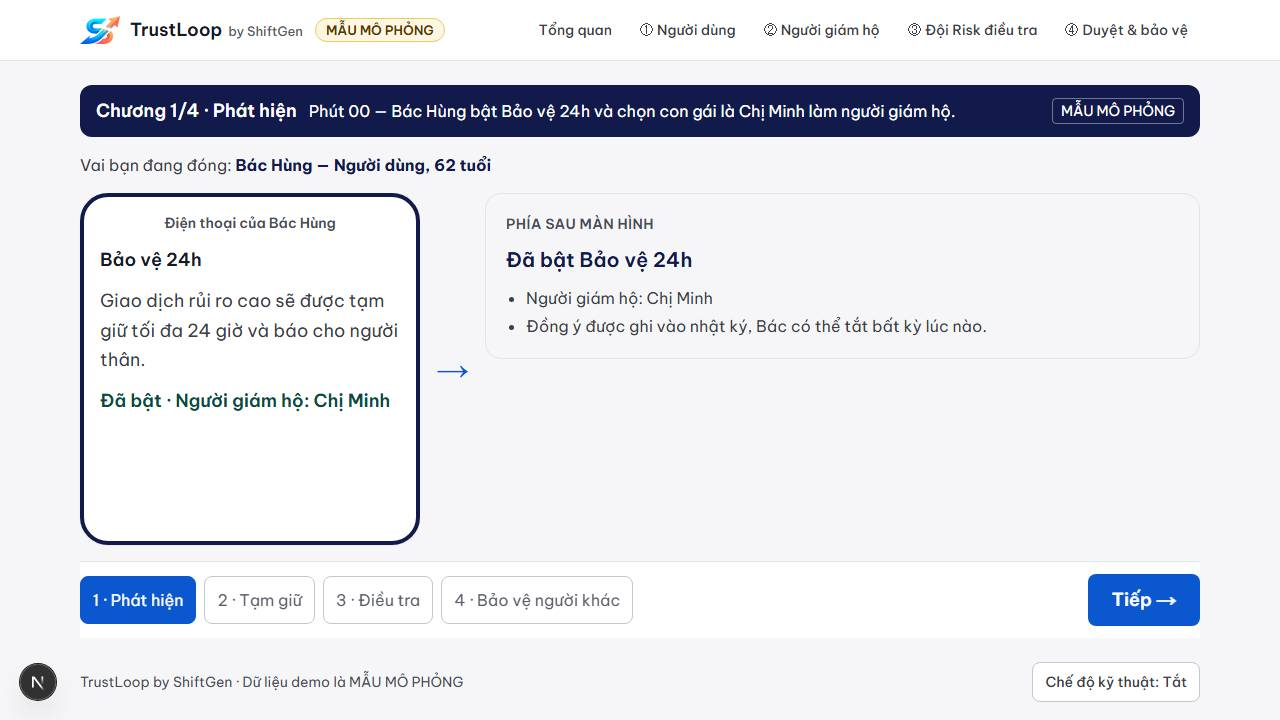
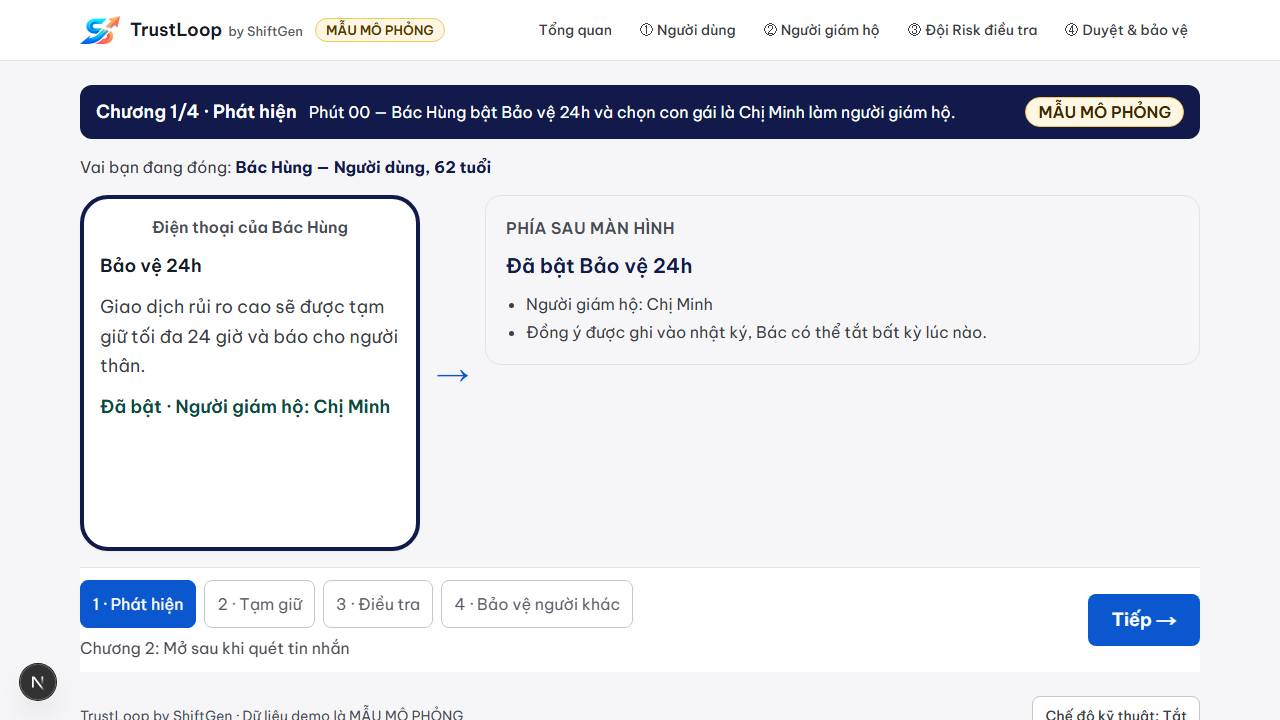
fix(story): address code-review findings for #20
- one Signal Orange surface: the phone hold banner (now with 'Giữ đến …'); backstage headline is plain
- stage text ≥16px; replay notice mono with a seafoam rule; MẪU MÔ PHỎNG as the amber tag
- locked chapter reason shown as text; Technical Mode link 'Mở màn hình đầy đủ' keeps the session,
  ids/enums shown in Technical Mode
- keyboard: busy button uses aria-disabled (focus stays), no focus steal on load, page has an h1
- mobile: primary button fixed to the bottom, narration stacks; index keys; beatById helper

diff --git a/components/story/BeatViews.tsx b/components/story/BeatViews.tsx
@@ -11,10 +11,11 @@ import { DEMO_PRESETS, RISK_LEVEL_META, SCAM_CATEGORY_VI } from "@/components/b2
 import { CAST, modelDisplayName } from "@/lib/cast";
 import { isReplayNotice } from "@/lib/replay-label";
 import { STORY_AMOUNT_VND, STORY_RECIPIENT_ACCOUNT } from "@/lib/story/actions";
-import { STORY_BEATS, type StoryState } from "@/lib/story/machine";
+import { beatById, type StoryState } from "@/lib/story/machine";
 
 const vnd = (n: number) => `${n.toLocaleString("vi-VN")}đ`;
 const seconds = (ms: number) => `${(ms / 1000).toLocaleString("vi-VN", { maximumFractionDigits: 1 })} giây`;
+const vnTime = (iso: string) => new Date(iso).toLocaleString("vi-VN", { timeZone: "Asia/Ho_Chi_Minh" });
 const maskedAccount = `•••• ${STORY_RECIPIENT_ACCOUNT.slice(-4)}`;
 const CASE01_IMAGE = DEMO_PRESETS.find((p) => p.code === "CASE-01")!.imagePath;
 
@@ -26,7 +27,7 @@ interface ViewProps {
 export function PhoneFrame({ state }: ViewProps) {
   const beat = state.shown;
   const done = state.done.includes(beat);
-  const owner = STORY_BEATS.find((b) => b.id === beat)!.actor;
+  const owner = beatById(beat).actor;
   const scan = state.results["1.2"] as ShieldScanResponse | undefined;
 
   let screen: React.ReactNode;
@@ -54,18 +55,22 @@ export function PhoneFrame({ state }: ViewProps) {
             className="max-h-56 w-full rounded-lg border border-slate-200 object-cover object-top"
           />
           {scan && (
-            <p className="font-semibold text-signal-800">
+            <p className="font-semibold text-momo-primary">
               Cảnh báo: rủi ro {RISK_LEVEL_META[scan.result.risk_level].labelVi.toLowerCase()}
             </p>
           )}
         </div>
       );
       break;
-    case "2.1":
+    case "2.1": {
+      const tx = state.results["2.1"] as TransferResponse | undefined;
       screen = done ? (
         <div className="space-y-2">
           <p className="font-semibold text-slate-900">Chuyển {vnd(STORY_AMOUNT_VND)}</p>
-          <p className="rounded-lg border-l-4 border-signal-700 bg-signal-50 p-3 text-slate-900">{NEUTRAL_HOLD_MESSAGE}</p>
+          <div className="rounded-lg border-l-4 border-signal-700 bg-signal-50 p-3 text-slate-900">
+            <p>{NEUTRAL_HOLD_MESSAGE}</p>
+            {tx?.holdExpiresAt && <p className="mt-1 font-semibold">Giữ đến {vnTime(tx.holdExpiresAt)}</p>}
+          </div>
         </div>
       ) : (
         <div className="space-y-2">
@@ -75,6 +80,7 @@ export function PhoneFrame({ state }: ViewProps) {
         </div>
       );
       break;
+    }
     case "2.2":
       screen = (
         <div className="space-y-2">
@@ -88,12 +94,12 @@ export function PhoneFrame({ state }: ViewProps) {
       );
       break;
     default:
-      screen = <p>{STORY_BEATS.find((b) => b.id === beat)!.narration}</p>;
+      screen = <p>{beatById(beat).narration}</p>;
   }
 
   return (
     <figure className="w-full max-w-[340px] shrink-0 rounded-[28px] border-4 border-momo-primary bg-white p-4 shadow-sm">
-      <figcaption className="mb-3 text-center text-sm font-semibold text-slate-600">
+      <figcaption className="mb-3 text-center text-base font-semibold text-slate-600">
         Điện thoại của {CAST[owner].name}
       </figcaption>
       <div className="min-h-[280px] text-lg leading-relaxed text-slate-700">{screen}</div>
@@ -106,7 +112,6 @@ export function Backstage({ state }: ViewProps) {
   const beat = state.shown;
   const result = state.results[beat];
   let headline = "Bấm nút bên dưới để xem hệ thống phản ứng.";
-  let held = false;
   let details: string[] = [];
   let more: string[] = [];
   let meta: string | null = null;
@@ -129,12 +134,9 @@ export function Backstage({ state }: ViewProps) {
       }
       case "2.1": {
         const r = result as TransferResponse;
-        held = true;
         headline = "Tiền đang tạm giữ — chưa rời ví";
         details = [
-          r.holdExpiresAt
-            ? `Giữ đến ${new Date(r.holdExpiresAt).toLocaleString("vi-VN", { timeZone: "Asia/Ho_Chi_Minh" })}`
-            : "Đang tạm giữ",
+          r.holdExpiresAt ? `Giữ đến ${vnTime(r.holdExpiresAt)}` : "Đang tạm giữ",
           `${CAST.FAMILY_MINH.name} đã được báo, chỉ thấy thông tin đã ẩn.`,
         ];
         break;
@@ -152,23 +154,15 @@ export function Backstage({ state }: ViewProps) {
 
   return (
     <section aria-labelledby="backstage-title" className="flex-1 rounded-2xl border border-slate-200 bg-slate-50 p-5">
-      <h3 id="backstage-title" className="text-sm font-semibold uppercase tracking-wide text-slate-600">
+      <h3 id="backstage-title" className="text-base font-semibold uppercase tracking-wide text-slate-600">
         Phía sau màn hình
       </h3>
       <div aria-live="polite" className="mt-3 space-y-3">
-        <p
-          className={
-            held
-              ? "rounded-lg bg-signal-700 px-4 py-3 text-xl font-semibold text-white"
-              : "text-xl font-semibold text-momo-primary"
-          }
-        >
-          {headline}
-        </p>
+        <p className="text-xl font-semibold text-momo-primary">{headline}</p>
         {details.length > 0 && (
           <ul className="list-disc space-y-1 pl-5 text-base text-slate-700">
-            {details.map((d) => (
-              <li key={d}>{d}</li>
+            {details.map((d, i) => (
+              <li key={i}>{d}</li>
             ))}
           </ul>
         )}
@@ -176,15 +170,29 @@ export function Backstage({ state }: ViewProps) {
           <details className="text-base text-slate-700">
             <summary className="cursor-pointer font-medium text-shift-blue">Xem thêm</summary>
             <ul className="mt-2 list-disc space-y-1 pl-5">
-              {more.map((d) => (
-                <li key={d}>{d}</li>
+              {more.map((d, i) => (
+                <li key={i}>{d}</li>
               ))}
             </ul>
           </details>
         )}
-        {meta && <p className="font-mono text-sm text-emerald-800">{meta}</p>}
-        {replay && <p className="rounded-lg bg-emerald-50 px-3 py-2 text-sm text-emerald-900">{replay}</p>}
+        {meta && <p className="font-mono text-base text-emerald-800">{meta}</p>}
+        {replay && (
+          <p className="rounded-lg border-l-4 border-emerald-700 bg-emerald-50 px-3 py-2 font-mono text-base text-emerald-900">
+            {replay}
+          </p>
+        )}
+        {result != null && (
+          <p className="tech-only font-mono text-base text-slate-600">{JSON.stringify(techIds(result))}</p>
+        )}
       </div>
     </section>
   );
+}
+
+/** Technical Mode: the ids/enums behind the story beat. */
+function techIds(result: unknown): Record<string, unknown> {
+  const r = result as Record<string, unknown>;
+  const keys = ["scanId", "txId", "status", "caseId", "modelUsed"];
+  return Object.fromEntries(keys.filter((k) => r[k] !== undefined).map((k) => [k, r[k]]));
 }

diff --git a/components/story/Stage.tsx b/components/story/Stage.tsx
@@ -6,6 +6,7 @@ import { Backstage, PhoneFrame } from "@/components/story/BeatViews";
 import { CAST } from "@/lib/cast";
 import { runBeat, storyContext } from "@/lib/story/actions";
 import {
+  beatById,
   initialStoryState,
   isBeatLocked,
   STORY_BEATS,
@@ -13,26 +14,32 @@ import {
   type Chapter,
 } from "@/lib/story/machine";
 
-const CHAPTERS: { n: Chapter; title: string }[] = [
-  { n: 1, title: "Phát hiện" },
-  { n: 2, title: "Tạm giữ" },
-  { n: 3, title: "Điều tra" },
-  { n: 4, title: "Bảo vệ người khác" },
+const CHAPTERS: { n: Chapter; title: string; fullScreen: string }[] = [
+  { n: 1, title: "Phát hiện", fullScreen: "/shield" },
+  { n: 2, title: "Tạm giữ", fullScreen: "/family" },
+  { n: 3, title: "Điều tra", fullScreen: "/warroom" },
+  { n: 4, title: "Bảo vệ người khác", fullScreen: "/checker" },
 ];
 
 /** The story stage: narration, phone ↔ "Phía sau màn hình", chapter rail, one primary button. */
-export function Stage() {
+export function Stage({ session }: { session: string }) {
   const [state, dispatch] = useReducer(storyReducer, undefined, initialStoryState);
   const inFlight = useRef(false); // reducer ignores a 2nd start only after re-render; this blocks same-tick double clicks
   const headingRef = useRef<HTMLHeadingElement>(null);
 
-  const current = state.current === "done" ? null : STORY_BEATS.find((b) => b.id === state.current)!;
-  const narrating = STORY_BEATS.find((b) => b.id === state.shown)!;
+  const current = state.current === "done" ? null : beatById(state.current);
+  const narrating = beatById(state.shown);
   const onCurrent = current?.id === state.shown;
 
+  const firstRender = useRef(true);
   useEffect(() => {
+    if (firstRender.current) {
+      firstRender.current = false; // don't steal focus from the header nav on load
+      return;
+    }
     headingRef.current?.focus();
   }, [state.viewing]);
+  const nextLocked = STORY_BEATS.filter((b) => b.id.endsWith(".1")).find((b) => isBeatLocked(state, b.id));
 
   async function play() {
     if (!current || inFlight.current) return;
@@ -49,13 +56,21 @@ export function Stage() {
   }
 
   return (
-    <div className="flex flex-col gap-4">
-      <div className="flex flex-wrap items-center gap-3 rounded-xl bg-momo-primary px-4 py-3 text-white">
+    <div className="flex flex-col gap-4 pb-28 lg:pb-0">
+      <div className="flex flex-col items-start gap-2 rounded-xl bg-momo-primary px-4 py-3 text-white lg:flex-row lg:items-center lg:gap-3">
         <h2 ref={headingRef} tabIndex={-1} className="text-lg font-semibold text-white focus:outline-none">
           Chương {state.viewing}/4 · {CHAPTERS[state.viewing - 1].title}
         </h2>
         <p className="flex-1 text-base">{narrating.narration}</p>
-        <span className="rounded border border-white/40 px-2 py-0.5 text-sm">{DEMO_SIMULATION_LABEL}</span>
+        <span className="rounded-full border border-amber-300 bg-amber-50 px-3 py-0.5 text-base font-semibold text-amber-900">
+          {DEMO_SIMULATION_LABEL}
+        </span>
+        <a
+          className="tech-only text-base text-white underline"
+          href={`${CHAPTERS[state.viewing - 1].fullScreen}?session=${encodeURIComponent(session)}`}
+        >
+          Mở màn hình đầy đủ
+        </a>
       </div>
 
       <p className="text-base text-slate-700">
@@ -73,7 +88,7 @@ export function Stage() {
         <Backstage state={state} />
       </div>
 
-      <div className="sticky bottom-0 mt-auto flex flex-col gap-3 border-t border-slate-200 bg-white/95 py-3 lg:flex-row lg:items-center">
+      <div className="mt-auto flex flex-col gap-3 border-t border-slate-200 bg-white/95 py-3 lg:sticky lg:bottom-0 lg:flex-row lg:items-center">
         <nav aria-label="Các chương" className="flex-1">
           <ol className="flex flex-wrap gap-2">
             {CHAPTERS.map((c) => {
@@ -96,9 +111,14 @@ export function Stage() {
               );
             })}
           </ol>
+          {nextLocked && (
+            <p className="mt-2 text-base text-slate-600">
+              Chương {nextLocked.chapter}: {nextLocked.lockedReason}
+            </p>
+          )}
         </nav>
 
-        <div className="flex flex-col items-stretch gap-1 lg:items-end">
+        <div className="fixed inset-x-0 bottom-0 z-10 flex flex-col items-stretch gap-1 border-t border-slate-200 bg-white px-4 py-2 lg:static lg:items-end lg:border-0 lg:p-0">
           {state.error && (
             <p role="alert" className="max-w-md text-base text-red-700">
               {state.error}
@@ -108,8 +128,8 @@ export function Stage() {
             <button
               type="button"
               onClick={play}
-              disabled={state.running}
-              className="min-h-[52px] rounded-lg bg-momo-primary px-6 text-lg font-semibold text-white hover:bg-shift-blue disabled:opacity-70 focus-visible:outline-none focus-visible:ring-2 focus-visible:ring-shift-blue focus-visible:ring-offset-2"
+              aria-disabled={state.running}
+              className="min-h-[52px] rounded-lg bg-momo-primary px-6 text-lg font-semibold text-white hover:bg-shift-blue aria-disabled:opacity-70 focus-visible:outline-none focus-visible:ring-2 focus-visible:ring-shift-blue focus-visible:ring-offset-2"
             >
               {state.running ? "Đang chạy…" : state.error ? `Thử lại: ${current.buttonLabel}` : `${current.buttonLabel} →`}
             </button>

diff --git a/tests/story-guardrails.test.ts b/tests/story-guardrails.test.ts
@@ -33,6 +33,27 @@ describe("story stage guardrails", () => {
     expect(all()).not.toMatch(/text-\[(?:[0-9]|1[0-2])px\]/);
   });
 
+  it("keeps stage text at 16px or more (spec: sân khấu ≥16px, điện thoại ≥18px)", () => {
+    expect(all()).not.toMatch(/(^|[\s"'`])text-(xs|sm)([\s"'`]|$)/m);
+  });
+
+  it("has exactly one Signal Orange surface: the hold banner on the phone", () => {
+    expect(all().match(/bg-signal-|border-signal-/g) ?? []).toHaveLength(2); // banner wash + its rule
+    expect(all()).not.toMatch(/bg-signal-700/);
+  });
+
+  it("offers Technical Mode links to the full screens and keeps focus on a busy button", () => {
+    const src = all();
+    expect(src).toContain("tech-only");
+    expect(src).toContain("Mở màn hình đầy đủ");
+    expect(src).toContain("aria-disabled");
+    expect(src).not.toMatch(/[^-]disabled=\{state\.running\}/);
+  });
+
+  it("shows why a chapter is still locked, in visible text", () => {
+    expect(all()).toMatch(/lockedReason\}<\/p>|\{nextLocked\.lockedReason\}/);
+  });
+
   it("keeps story state in memory only (refresh starts a fresh session)", () => {
     expect(all()).not.toMatch(/localStorage|sessionStorage/);
   });

diff --git a/app/story/page.tsx b/app/story/page.tsx
@@ -1,6 +1,6 @@
 "use client";
 
-import { Suspense, useEffect, useState } from "react";
+import { Suspense, useEffect } from "react";
 import { useRouter, useSearchParams } from "next/navigation";
 import { Stage } from "@/components/story/Stage";
 import { newSessionSlug } from "@/lib/demo-session";
@@ -10,14 +10,16 @@ function StoryOnSession() {
   const router = useRouter();
   const params = useSearchParams();
   const session = params.get("session");
-  const [ready, setReady] = useState(false);
-
   useEffect(() => {
     if (!session) router.replace(`/story?session=${newSessionSlug()}`);
-    else setReady(true);
   }, [session, router]);
 
-  return ready ? <Stage key={session} /> : null;
+  return (
+    <>
+      <h1 className="sr-only">Câu chuyện TrustLoop: một vụ lừa đảo bị chặn trước khi tiền rời ví</h1>
+      {session && <Stage key={session} session={session} />}
+    </>
+  );
 }
 
 export default function StoryPage() {

diff --git a/lib/story/machine.ts b/lib/story/machine.ts
@@ -105,8 +105,12 @@ export function initialStoryState(): StoryState {
   return { current: "1.1", shown: "1.1", done: [], running: false, error: null, viewing: 1, results: {} };
 }
 
+export function beatById(id: BeatId): StoryBeat {
+  return STORY_BEATS.find((b) => b.id === id)!;
+}
+
 function chapterOf(id: BeatId): Chapter {
-  return STORY_BEATS.find((b) => b.id === id)!.chapter;
+  return beatById(id).chapter;
 }
 
 export function isBeatLocked(s: StoryState, id: BeatId): boolean {
